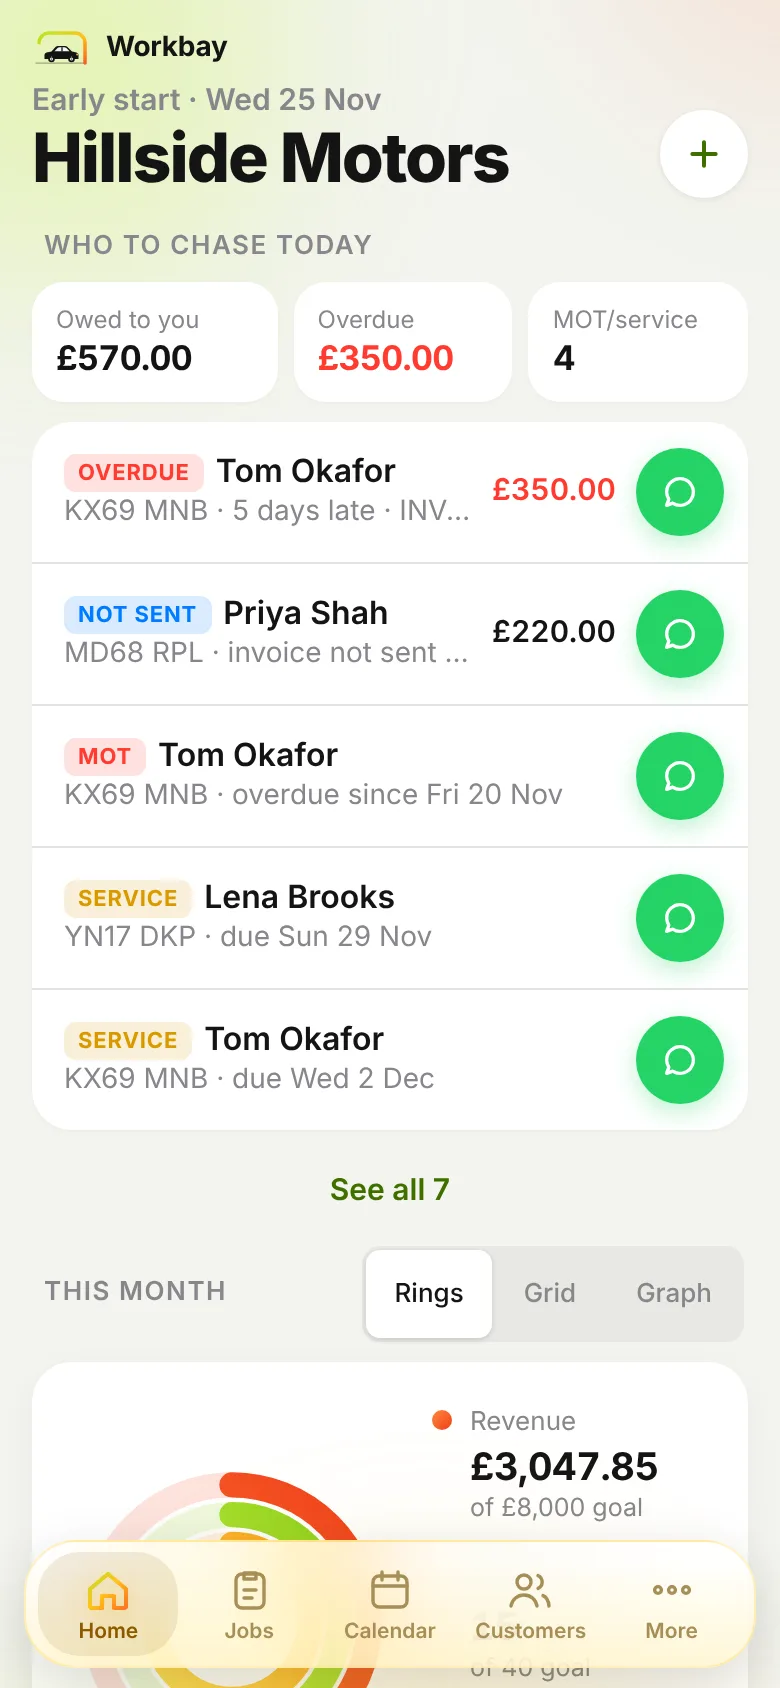
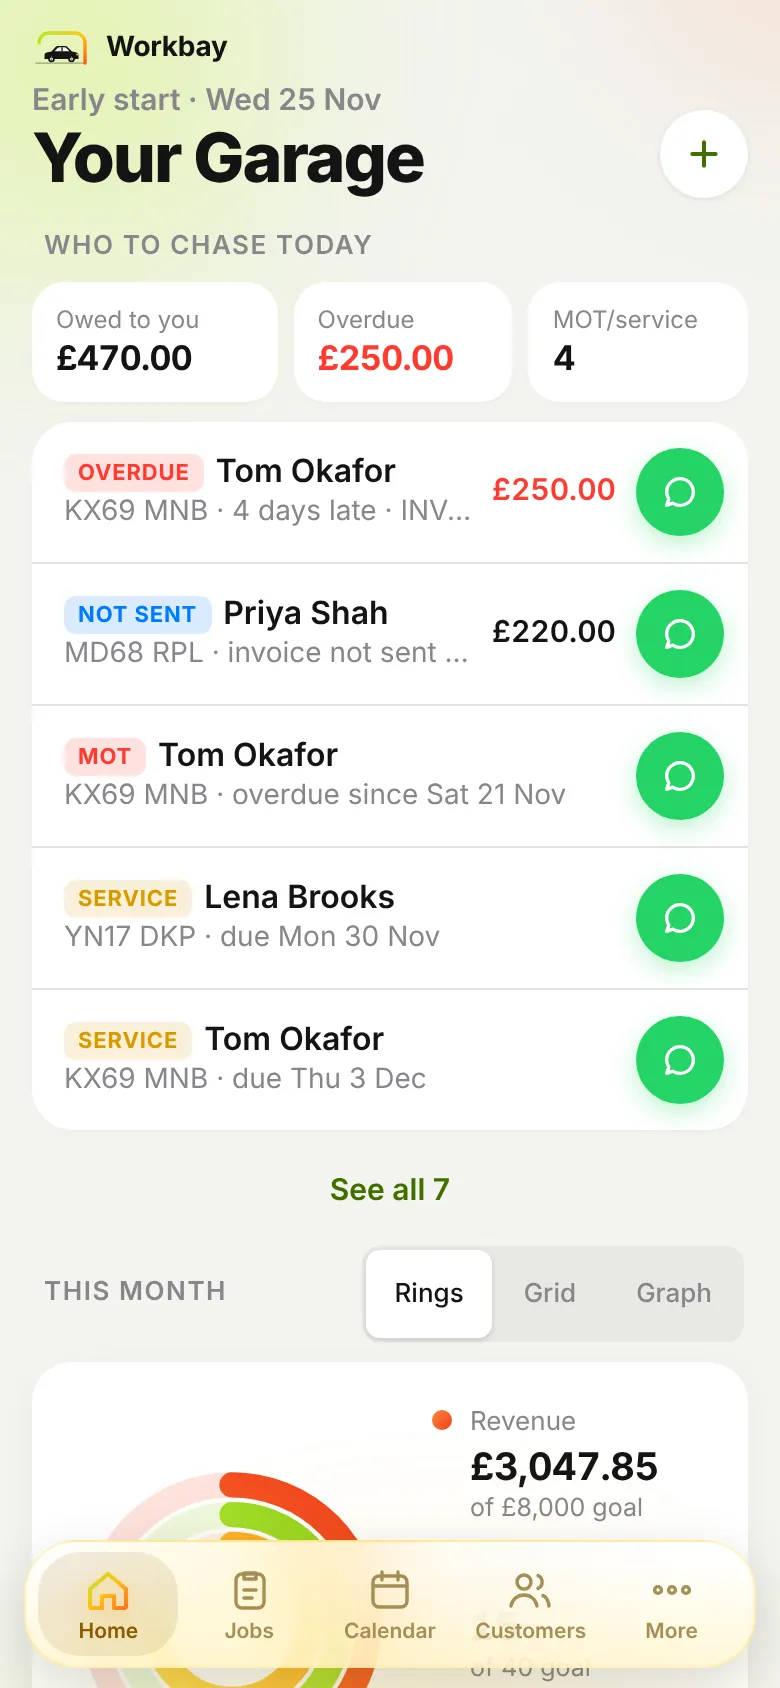
Website: add dashboard section
New "Open the app. See your whole garage." section with a phone that
scrolls to each part of the dashboard (who to chase, this month, to do,
today). Fresh dashboard screenshots; the Home tab is now called Dashboard.

Claude-Session: https://claude.ai/code/session_01HZu1XyVQjVvEat2nV4qBCq

diff --git a/workbay-site/index.html b/workbay-site/index.html
@@ -452,7 +452,19 @@ footer{padding:40px 0 calc(40px + env(safe-area-inset-bottom));border-top:1px so
 .stick b{display:block;font-size:15px}.stick span{font-size:13px;color:#a1a1a6}
 .stick a{background:var(--lime);color:#141414;font-weight:600;border-radius:999px;padding:11px 18px;white-space:nowrap}
 @media(min-width:821px){.stick{display:none}}
-@media (prefers-reduced-motion:reduce){.sphone img,.stick{transition:none}}
+.dboard{display:grid;grid-template-columns:minmax(0,1.1fr) minmax(0,1fr);gap:48px;align-items:center}
+.dlist{list-style:none;margin:28px 0 0;padding:0;display:grid;gap:10px;counter-reset:d}
+.dlist button{all:unset;box-sizing:border-box;display:grid;grid-template-columns:34px 1fr;gap:4px 14px;width:100%;padding:16px 18px;border-radius:20px;border:1px solid var(--line);background:#fff;cursor:pointer;transition:background .4s,border-color .4s,transform .4s;counter-increment:d}
+.dlist button::before{content:counter(d);grid-row:span 2;width:34px;height:34px;border-radius:50%;display:grid;place-items:center;font-weight:700;font-size:15px;background:#f1f1ec;color:var(--ink);transition:background .4s}
+.dcopy h2{font-size:clamp(34px,5vw,58px);font-weight:800;margin:6px 0 14px}.dlist b{font-size:18px;color:var(--ink)}.dlist span{color:var(--muted);font-size:15.5px;line-height:1.45}
+.dlist button[aria-pressed="true"]{border-color:var(--ink);transform:translateX(4px)}
+.dlist button[aria-pressed="true"]::before{background:#c6f432}
+.dlist button:focus-visible{outline:2px solid var(--ink);outline-offset:3px}
+.dphone{position:relative;width:min(320px,78vw);margin:0 auto;aspect-ratio:390/844;border-radius:46px;background:#141414;padding:12px;box-shadow:0 40px 80px -30px rgba(0,0,0,.45)}
+.dphone .dscr{position:absolute;inset:12px;border-radius:36px;overflow:hidden;background:#f5f5f0}
+.dphone img{display:block;width:100%;height:auto;transition:transform 1.6s cubic-bezier(.65,0,.35,1)}
+@media (max-width:900px){.dboard{grid-template-columns:1fr;gap:34px}.dboard .dphone{order:-1}.dlist button[aria-pressed="true"]{transform:none}}
+@media (prefers-reduced-motion:reduce){.sphone img,.stick,.dphone img{transition:none}}
 </style>
 </head>
 <body>
@@ -568,12 +580,28 @@ footer{padding:40px 0 calc(40px + env(safe-area-inset-bottom));border-top:1px so
   </section>
 
   
+  <section class="sect wrap" id="dashboard">
+    <div class="dboard">
+      <div class="dcopy">
+        <p class="eyebrow reveal">Your dashboard</p>
+        <h2 class="reveal d1">Open the app. See your whole garage.</h2>
+        <p class="lead reveal d2">The first screen you see every morning. Money, jobs and what needs doing next, all on one page.</p>
+        <ol class="dlist reveal d2" aria-label="What’s on the dashboard">
+          <li><button type="button" data-y="0" aria-pressed="true"><b>Who to chase today</b><span>What you’re owed, what’s overdue, and which MOTs and services are due. One tap writes the message.</span></button></li>
+          <li><button type="button" data-y="28" aria-pressed="false"><b>This month</b><span>Revenue, jobs done and money collected close like rings against your goals. Prefer numbers? Switch to a grid or a graph.</span></button></li>
+          <li><button type="button" data-y="51.5" aria-pressed="false"><b>To do</b><span>Cars to start, parts to order, invoices to send and quotes waiting for a yes.</span></button></li>
+          <li><button type="button" data-y="62.3" aria-pressed="false"><b>Today</b><span>Every job booked in today, with its price and where it’s up to.</span></button></li>
+        </ol>
+      </div>
+      <div class="dphone reveal"><div class="dscr"><img src="media/screen-dashboard.webp" alt="The Workbay dashboard: who to chase today, this month’s takings as rings, a to-do list and today’s jobs" loading="lazy" id="dashImg"></div></div>
+    </div>
+  </section>
   <section class="sect wrap" id="screens">
     <div class="sect-h"><p class="eyebrow reveal">Take a look around</p><h2 class="reveal d1">The screens you'll use every day.</h2><p class="lead reveal d2">Real Workbay screens, with a made-up garage and made-up customers.</p></div>
     <div class="screens">
       <div class="scopy">
-        <div class="stabs" role="tablist" aria-label="Workbay screens"><button type="button" role="tab" id="st-home" aria-selected="true" data-s="home">Home</button><button type="button" role="tab" id="st-jobs" aria-selected="false" data-s="jobs">Jobs</button><button type="button" role="tab" id="st-calendar" aria-selected="false" data-s="calendar">Calendar</button><button type="button" role="tab" id="st-jobcard" aria-selected="false" data-s="jobcard">Job card</button><button type="button" role="tab" id="st-invoice" aria-selected="false" data-s="invoice">Invoice</button><button type="button" role="tab" id="st-reminders" aria-selected="false" data-s="reminders">MOT reminders</button><button type="button" role="tab" id="st-customers" aria-selected="false" data-s="customers">Customers</button></div>
-        <h3 id="sTitle">Your day at a glance.</h3><p id="sText">Who owes you, who to chase, MOTs and services due, and the month’s takings closing like rings.</p>
+        <div class="stabs" role="tablist" aria-label="Workbay screens"><button type="button" role="tab" id="st-home" aria-selected="true" data-s="home">Dashboard</button><button type="button" role="tab" id="st-jobs" aria-selected="false" data-s="jobs">Jobs</button><button type="button" role="tab" id="st-calendar" aria-selected="false" data-s="calendar">Calendar</button><button type="button" role="tab" id="st-jobcard" aria-selected="false" data-s="jobcard">Job card</button><button type="button" role="tab" id="st-invoice" aria-selected="false" data-s="invoice">Invoice</button><button type="button" role="tab" id="st-reminders" aria-selected="false" data-s="reminders">MOT reminders</button><button type="button" role="tab" id="st-customers" aria-selected="false" data-s="customers">Customers</button></div>
+        <h3 id="sTitle">Your day at a glance.</h3><p id="sText">Who to chase, MOTs and services due, the month’s takings closing like rings, and your to-do list.</p>
         <p class="cap">Tap a screen name to see it.</p>
       </div>
       <div class="sphone"><div class="sscr"><img src="media/screen-home.webp" alt="Workbay Home screen" class="on" data-s="home" loading="eager"><img src="media/screen-jobs.webp" alt="Workbay Jobs screen" class="" data-s="jobs" loading="lazy"><img src="media/screen-calendar.webp" alt="Workbay Calendar screen" class="" data-s="calendar" loading="lazy"><img src="media/screen-jobcard.webp" alt="Workbay Job card screen" class="" data-s="jobcard" loading="lazy"><img src="media/screen-invoice.webp" alt="Workbay Invoice screen" class="" data-s="invoice" loading="lazy"><img src="media/screen-reminders.webp" alt="Workbay MOT reminders screen" class="" data-s="reminders" loading="lazy"><img src="media/screen-customers.webp" alt="Workbay Customers screen" class="" data-s="customers" loading="lazy"></div></div>
@@ -894,8 +922,13 @@ show(location.hash.slice(1)||'home',true);
 <div class="stick" id="stick" aria-hidden="true"><div><b>7 days free</b><span>Then £29 a month. No contract.</span></div><a href="#" data-app="trial">Try it free</a></div>
 <script>
 (function(){
-  var tabs=document.querySelectorAll('.stabs button'),imgs=document.querySelectorAll('.sphone img'),T={"home": ["Your day at a glance.", "Who owes you, who to chase, MOTs and services due, and the month’s takings closing like rings."], "jobs": ["Every job in one list.", "Booked, in progress, done and paid, with the reg, customer and price on each. Filter it with one tap."], "calendar": ["The diary, without the diary.", "Every booking on the day it’s in. Tap a day to see what’s coming through the door."], "jobcard": ["Everything about the car.", "Customer, reg, mileage, parts status, MOT and service dates, and a health check in colour."], "invoice": ["Invoices in seconds.", "Itemised labour and parts, your garage name on top. Share it as a PDF or send it on WhatsApp."], "reminders": ["Never miss an MOT.", "Every MOT and service due in the next 30 days, with the message already written. One tap to send."], "customers": ["All your customers, sorted.", "Name, number and reg for every customer and car. Search by any of them."]};
+  var tabs=document.querySelectorAll('.stabs button'),imgs=document.querySelectorAll('.sphone img'),T={"home": ["Your day at a glance.", "Who to chase, MOTs and services due, the month’s takings closing like rings, and your to-do list."], "jobs": ["Every job in one list.", "Booked, in progress, done and paid, with the reg, customer and price on each. Filter it with one tap."], "calendar": ["The diary, without the diary.", "Every booking on the day it’s in. Tap a day to see what’s coming through the door."], "jobcard": ["Everything about the car.", "Customer, reg, mileage, parts status, MOT and service dates, and a health check in colour."], "invoice": ["Invoices in seconds.", "Itemised labour and parts, your garage name on top. Share it as a PDF or send it on WhatsApp."], "reminders": ["Never miss an MOT.", "Every MOT and service due in the next 30 days, with the message already written. One tap to send."], "customers": ["All your customers, sorted.", "Name, number and reg for every customer and car. Search by any of them."]};
   tabs.forEach(function(b){b.addEventListener('click',function(){var k=b.dataset.s;tabs.forEach(function(x){x.setAttribute('aria-selected',String(x===b));});imgs.forEach(function(i){i.classList.toggle('on',i.dataset.s===k);});document.getElementById('sTitle').textContent=T[k][0];document.getElementById('sText').textContent=T[k][1];});});
+  var dB=document.querySelectorAll('.dlist button'),dI=document.getElementById('dashImg'),dN=0,dT=null,dSeen=false;
+  function dGo(i){dN=i;dB.forEach(function(b,k){b.setAttribute('aria-pressed',String(k===i));});if(dI)dI.style.transform='translateY(-'+dB[i].dataset.y+'%)';}
+  function dAuto(){clearInterval(dT);if(window.matchMedia&&matchMedia('(prefers-reduced-motion: reduce)').matches)return;dT=setInterval(function(){dGo((dN+1)%dB.length);},4200);}
+  dB.forEach(function(b,k){b.addEventListener('click',function(){dGo(k);clearInterval(dT);setTimeout(dAuto,12000);});});
+  if(dB.length&&'IntersectionObserver' in window){new IntersectionObserver(function(es){es.forEach(function(e){if(e.isIntersecting&&!dSeen){dSeen=true;dAuto();}});},{threshold:.4}).observe(document.getElementById('dashboard'));}
   var vids=document.querySelectorAll('.wphone video');
   if('IntersectionObserver' in window){var io=new IntersectionObserver(function(es){es.forEach(function(e){var v=e.target;if(e.isIntersecting){var p=v.play();if(p&&p.catch)p.catch(function(){});}else v.pause();});},{threshold:.5});vids.forEach(function(v){io.observe(v);});}
   var st=document.getElementById('stick');

diff --git a/workbay-site/README.md b/workbay-site/README.md
@@ -4,6 +4,7 @@ Upgraded copy of the live site at https://workbay-garage.vercel.app (home page `
 
 Added (all on the home view, existing sections kept as they were):
 - Trust strip under the hero (devices, home screen, no contract, data export)
+- "Open the app. See your whole garage.": the dashboard, with a phone that scrolls to each part (who to chase, this month, to do, today)
 - "The screens you'll use every day": tabbed real app screenshots + desktop view
 - "One job, start to finish": 4 real screen recordings from the demo garage (media/walk-*.mp4)
 - "Up and running before your next brew": 3 setup steps
